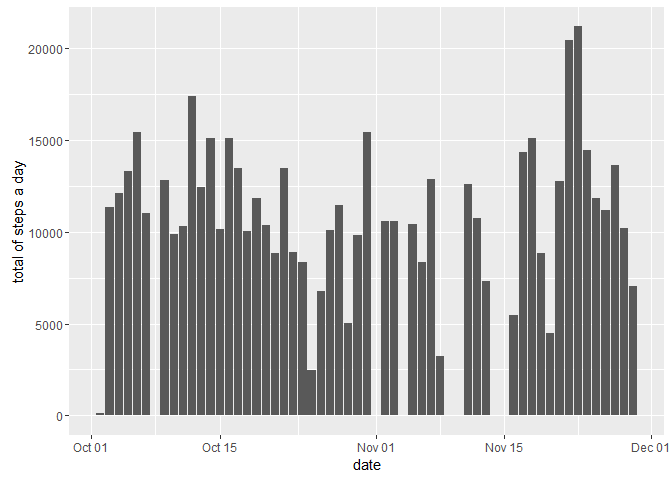
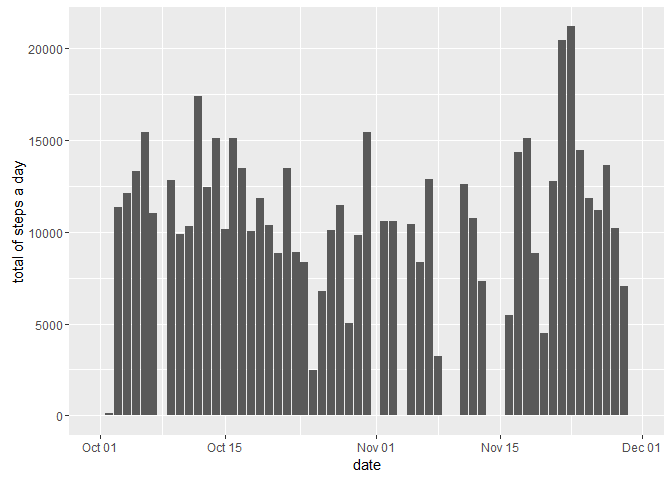
replace na with nearast but that is 0 most of the time

diff --git a/PA1_template.html b/PA1_template.html
@@ -140,15 +140,21 @@ library(data.table)</code></pre>
 <pre><code>## The following objects are masked from 'package:data.table':
 ## 
 ##     dcast, melt</code></pre>
+<pre class="r"><code>library(zoo)</code></pre>
+<pre><code>## 
+## Attaching package: 'zoo'</code></pre>
+<pre><code>## The following objects are masked from 'package:base':
+## 
+##     as.Date, as.Date.numeric</code></pre>
 </div>
 <div id="loading-and-preprocessing-the-data" class="section level2">
 <h2>Loading and preprocessing the data</h2>
 <pre class="r"><code>setwd(&quot;C:/Users/R/OneDrive/coursera/reproducibleResearch/week1Assignment&quot;)
 
-if(!exists(&quot;activity&quot;)){
+#if(!exists(&quot;activity&quot;)){
    # unzip(&quot;activity.zip&quot;)
   activity&lt;- read.csv(&quot;activity.csv&quot;)
-}
+#}
 
 activity$date&lt;-ymd(as.character(activity$date))</code></pre>
 </div>
@@ -164,13 +170,14 @@ names(activityByDay)&lt;-c(&quot;date&quot;,&quot;steps-Mean&quot;,&quot;steps-M
 totalStepsaDay &lt;- ggplot(activityByDay, aes(x=date, weights=steps)) + 
   geom_bar()+labs(y=&quot;total of steps a day&quot;)
 print(totalStepsaDay)</code></pre>
[2 lines of base64/hex data omitted]
 <pre class="r"><code>activityByDay.melt&lt;- melt(activityByDay[,c(1:3)], id.vars=&quot;date&quot;,variable.name =&quot;Aggregate&quot;, value.name=&quot;steps&quot;)
 
 MeanAndMediumADay &lt;-ggplot(data=activityByDay.melt,aes(date,steps,col=Aggregate)) + geom_point(alpha=0.3) + scale_color_manual(values = c(&quot;steps-Mean&quot; = 'red','steps-Median' = 'blue')) 
    
 print(MeanAndMediumADay)</code></pre>
[1 lines of base64/hex data omitted]
+<pre><code>## Warning: Removed 16 rows containing missing values (geom_point).</code></pre>
[1 lines of base64/hex data omitted]
 </div>
 <div id="what-is-the-average-daily-activity-pattern" class="section level2">
 <h2>What is the average daily activity pattern?</h2>
@@ -192,12 +199,45 @@ maxInterval</code></pre>
 <div id="imputing-missing-values" class="section level2">
 <h2>Imputing missing values</h2>
 <pre class="r"><code>NumberOfNA &lt;- sum(is.na(activity$steps))
-datesNa&lt;- sum(is.na(activity$date))
-
 NumberOfNA</code></pre>
 <pre><code>## [1] 2304</code></pre>
-<pre class="r"><code>datesNa</code></pre>
+<pre class="r"><code>activity$steps&lt;-na.locf(activity$steps,na.rm = F,fromLast = F, rule=2)
+activity$steps&lt;-na.locf(activity$steps,na.rm = F,fromLast = T,rule=2)
+NumberOfNA_afterReplacement &lt;- sum(is.na(activity$steps))
+NumberOfNA_afterReplacement</code></pre>
 <pre><code>## [1] 0</code></pre>
+<pre class="r"><code>activityByDayNoNA&lt;- group_by(activity[,c(1:2)],date) %&gt;%summarise(median(steps[steps&gt;0]),
+                                                              mean(steps[steps&gt;0]),
+                                                              sum(steps))
+
+names(activityByDayNoNA)&lt;-c(&quot;date&quot;,&quot;steps-Mean2&quot;,&quot;steps-Median2&quot;,&quot;steps2&quot;)
+
+totalStepsaDay &lt;- ggplot(activityByDayNoNA, aes(x=date, weights=steps2)) + 
+  geom_bar()+labs(y=&quot;total of steps a day&quot;)
+print(totalStepsaDay)</code></pre>
[1 lines of base64/hex data omitted]
+<pre class="r"><code>activityByDayNoNA.melt&lt;- melt(activityByDayNoNA[,c(1:3)], id.vars=&quot;date&quot;,variable.name =&quot;Aggregate&quot;, value.name=&quot;steps2&quot;)
+
+MeanAndMediumADay &lt;-ggplot(data=activityByDayNoNA.melt,aes(date,steps2,col=Aggregate)) + geom_point(alpha=0.3) + scale_color_manual(values = c(&quot;steps-Mean2&quot; = 'red','steps-Median2' = 'blue')) 
+   
+print(MeanAndMediumADay)</code></pre>
+<pre><code>## Warning: Removed 16 rows containing missing values (geom_point).</code></pre>
[1 lines of base64/hex data omitted]
+<pre class="r"><code>averages_With_Na_replaced&lt;-summarise_each(activityByDayNoNA[complete.cases(activityByDayNoNA),][,c(-1)],funs(mean))
+averages_With_Na_not_replaced&lt;-summarise_each(activityByDay[complete.cases(activityByDay),][,c(-1)],funs(mean))
+
+averages_With_Na_not_replaced</code></pre>
+<pre><code>## Source: local data frame [1 x 3]
+## 
+##   steps-Mean steps-Median    steps
+##        (dbl)        (dbl)    (dbl)
+## 1    56.5566     129.7411 10766.19</code></pre>
+<pre class="r"><code>averages_With_Na_replaced</code></pre>
+<pre><code>## Source: local data frame [1 x 3]
+## 
+##   steps-Mean2 steps-Median2   steps2
+##         (dbl)         (dbl)    (dbl)
+## 1     56.5566      129.7411 10766.19</code></pre>
 </div>
 <div id="are-there-differences-in-activity-patterns-between-weekdays-and-weekends" class="section level2">
 <h2>Are there differences in activity patterns between weekdays and weekends?</h2>

diff --git a/PA1_template.md b/PA1_template.md
@@ -61,16 +61,31 @@ library(reshape2)
 ##     dcast, melt
 ```
 
+```r
+library(zoo)
+```
+
+```
+## 
+## Attaching package: 'zoo'
+```
+
+```
+## The following objects are masked from 'package:base':
+## 
+##     as.Date, as.Date.numeric
+```
+
 
 ## Loading and preprocessing the data
 
 ```r
 setwd("C:/Users/R/OneDrive/coursera/reproducibleResearch/week1Assignment")
 
-if(!exists("activity")){
+#if(!exists("activity")){
    # unzip("activity.zip")
   activity<- read.csv("activity.csv")
-}
+#}
 
 activity$date<-ymd(as.character(activity$date))
 ```
@@ -99,6 +114,10 @@ activityByDay.melt<- melt(activityByDay[,c(1:3)], id.vars="date",variable.name =
 MeanAndMediumADay <-ggplot(data=activityByDay.melt,aes(date,steps,col=Aggregate)) + geom_point(alpha=0.3) + scale_color_manual(values = c("steps-Mean" = 'red','steps-Median' = 'blue')) 
    
 print(MeanAndMediumADay)
+```
+
+```
+## Warning: Removed 16 rows containing missing values (geom_point).
 ```
 
 ![](PA1_template_files/figure-html/unnamed-chunk-3-2.png)
@@ -138,8 +157,6 @@ maxInterval
 
 ```r
 NumberOfNA <- sum(is.na(activity$steps))
-datesNa<- sum(is.na(activity$date))
-
 NumberOfNA
 ```
 
@@ -148,11 +165,69 @@ NumberOfNA
 ```
 
 ```r
-datesNa
+activity$steps<-na.locf(activity$steps,na.rm = F,fromLast = F, rule=2)
+activity$steps<-na.locf(activity$steps,na.rm = F,fromLast = T,rule=2)
+NumberOfNA_afterReplacement <- sum(is.na(activity$steps))
+NumberOfNA_afterReplacement
 ```
 
 ```
 ## [1] 0
+```
+
+```r
+activityByDayNoNA<- group_by(activity[,c(1:2)],date) %>%summarise(median(steps[steps>0]),
+                                                              mean(steps[steps>0]),
+                                                              sum(steps))
+
+names(activityByDayNoNA)<-c("date","steps-Mean2","steps-Median2","steps2")
+
+totalStepsaDay <- ggplot(activityByDayNoNA, aes(x=date, weights=steps2)) + 
+  geom_bar()+labs(y="total of steps a day")
+print(totalStepsaDay)
+```
+
+![](PA1_template_files/figure-html/unnamed-chunk-5-1.png)
+
+```r
+activityByDayNoNA.melt<- melt(activityByDayNoNA[,c(1:3)], id.vars="date",variable.name ="Aggregate", value.name="steps2")
+
+MeanAndMediumADay <-ggplot(data=activityByDayNoNA.melt,aes(date,steps2,col=Aggregate)) + geom_point(alpha=0.3) + scale_color_manual(values = c("steps-Mean2" = 'red','steps-Median2' = 'blue')) 
+   
+print(MeanAndMediumADay)
+```
+
+```
+## Warning: Removed 16 rows containing missing values (geom_point).
+```
+
+![](PA1_template_files/figure-html/unnamed-chunk-5-2.png)
+
+```r
+averages_With_Na_replaced<-summarise_each(activityByDayNoNA[complete.cases(activityByDayNoNA),][,c(-1)],funs(mean))
+averages_With_Na_not_replaced<-summarise_each(activityByDay[complete.cases(activityByDay),][,c(-1)],funs(mean))
+
+averages_With_Na_not_replaced
+```
+
+```
+## Source: local data frame [1 x 3]
+## 
+##   steps-Mean steps-Median    steps
+##        (dbl)        (dbl)    (dbl)
+## 1    56.5566     129.7411 10766.19
+```
+
+```r
+averages_With_Na_replaced
+```
+
+```
+## Source: local data frame [1 x 3]
+## 
+##   steps-Mean2 steps-Median2   steps2
+##         (dbl)         (dbl)    (dbl)
+## 1     56.5566      129.7411 10766.19
 ```
 
 
